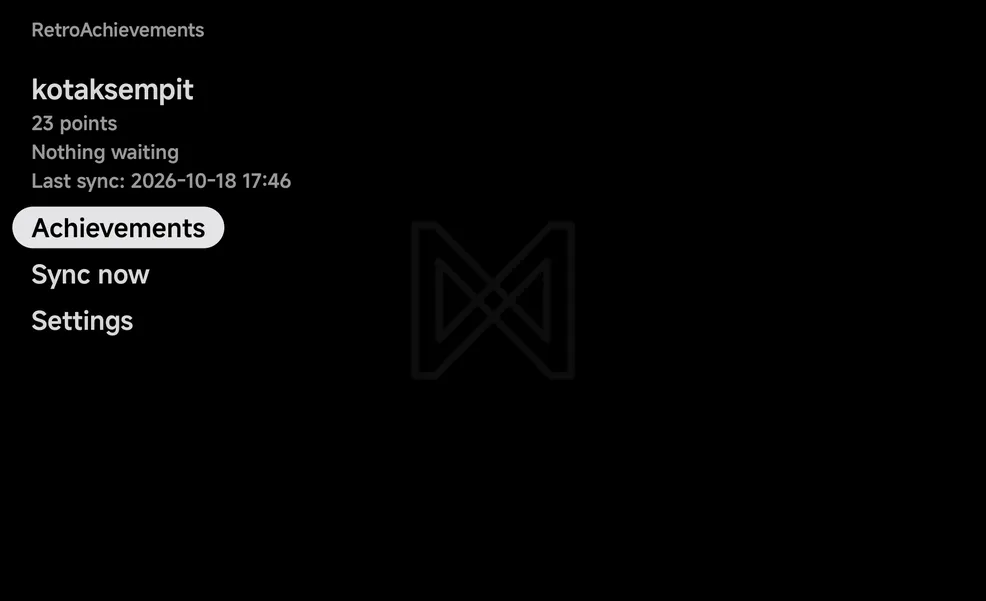
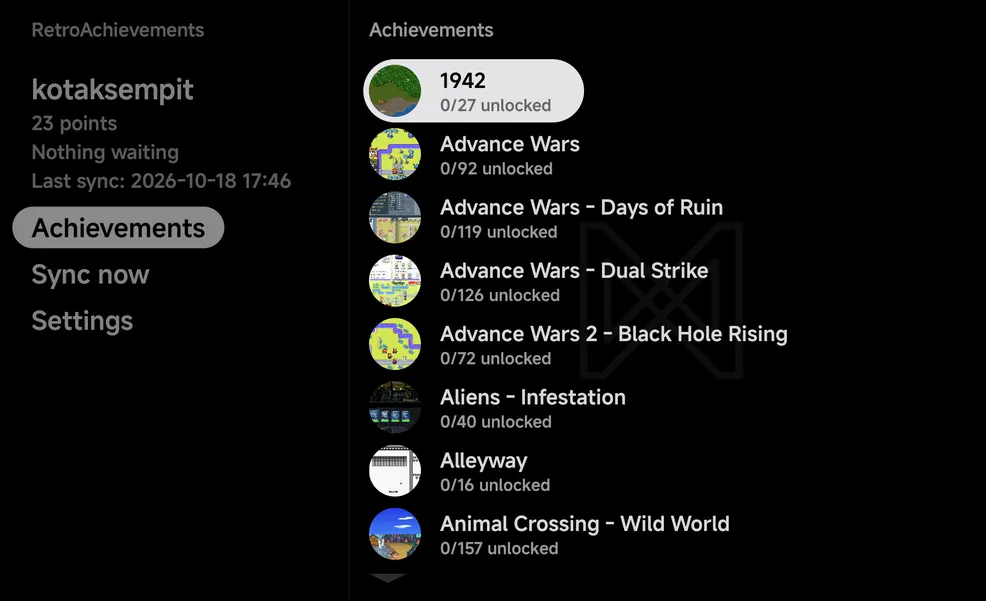
docs(mobile): RetroAchievements home as the two-pane Fold shot; the games list shot back as it was

diff --git a/docs/mobile/retroachievements.md b/docs/mobile/retroachievements.md
@@ -6,7 +6,7 @@ sign in, browse your achievements and change its settings there. Once you are
 signed in, game lists also show a game's achievements in a
 [panel](#on-game-lists).
 
-![Tools → RetroAchievements, signed in as kotaksempit: 23 points, Nothing waiting, the last sync time, then the three rows](../assets/screenshots/mobile/ra-home.webp)
+![Tools → RetroAchievements in two panes: kotaksempit with 23 points, Nothing waiting and the last sync time, then Achievements, Sync now and Settings on the left, and the cached games on the right](../assets/screenshots/mobile/ra-home.webp)
 
 The home screen shows your username and points, with three rows:
 **Achievements**, **Sync now** and **Settings**.
@@ -240,7 +240,7 @@ games. A notice then says how many unlocks were synced, **Up to date**, or
 **Achievements** on the home screen lists every cached game with its art and
 progress, such as `12/40 unlocked`. It works offline.
 
-![RetroAchievements in two panes: the account and its rows on the left, Achievements on the right listing each cached game with its progress, from 1942 (0/27 unlocked) on](../assets/screenshots/mobile/ra-games.webp)
+![RetroAchievements → Achievements, listing cached games with their progress, from 1942 (0/27 unlocked) on](../assets/screenshots/mobile/ra-games.webp)
 
 Open a game to see its achievements. Each shows **Unlocked**, **Pending sync**
 or **Locked**, with its points. `Y` (on touch, the filter icon) shows only
